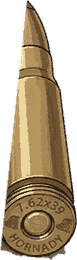
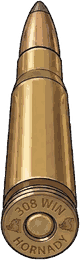
v1.77 - niente zoom nel gioco, cartuccia 308 rifatta

diff --git a/index.html b/index.html
@@ -745,7 +745,8 @@
   overflow:hidden; touch-action:manipulation; user-select:none; -webkit-user-select:none;}
 #gioco.show{display:block;}
 #gioco img.gc-src{display:none;}
-#gioco canvas{position:absolute; inset:0; width:100%; height:100%; display:block;}
+#gioco canvas{position:absolute; inset:0; width:100%; height:100%; display:block;
+  touch-action:none;}   /* niente zoom col doppio tocco mentre si spara */
 #gc-top{position:absolute; top:0; left:0; right:0; z-index:3;
   padding:calc(env(safe-area-inset-top) + 8px) 12px 8px;
   display:flex; align-items:flex-start; justify-content:space-between; pointer-events:none;
@@ -2274,7 +2275,7 @@
   "use strict";
 
   /* ================= CONFIG ================= */
-  var APP_VERSION = "v1.76";   // ← aggiornare a ogni deploy
+  var APP_VERSION = "v1.77";   // ← aggiornare a ogni deploy
   var SUPABASE_URL = "https://vtcgicgznwpsezymsmyu.supabase.co";
   var SUPABASE_KEY = "sb_publishable_LuF-dkRNDIR0kP66Ng0xsA_lDwCoIMW";
   var sb = window.supabase.createClient(SUPABASE_URL, SUPABASE_KEY);
@@ -13580,9 +13581,32 @@
         el("gc-audio").innerHTML = audioSi ? "&#128266;" : "&#128263;";
       };
       window.addEventListener("resize", function(){ if(acceso) dimensiona(); });
+
+      /* NIENTE ZOOM MENTRE SI GIOCA.
+         Il meta viewport con user-scalable=no non basta: iPhone lo ignora da anni,
+         e col doppio tocco o due dita lo schermo si ingrandiva e il cane finiva
+         fuori dal ritaglio. Lo blocco solo qui dentro: fuori dal gioco lo zoom
+         resta libero, che sulla mappa serve. */
+      var box=el("gioco");
+      ["gesturestart","gesturechange","gestureend"].forEach(function(ev){
+        box.addEventListener(ev, function(e){ e.preventDefault(); }, {passive:false});
+      });
+      box.addEventListener("touchstart", function(e){ if(e.touches.length>1) e.preventDefault(); }, {passive:false});
+      box.addEventListener("touchmove",  function(e){ if(e.touches.length>1) e.preventDefault(); }, {passive:false});
+      var ultimoTocco=0;
+      cv.addEventListener("touchend", function(e){
+        var t=Date.now();
+        if(t-ultimoTocco<350) e.preventDefault();   // il doppio tocco ingrandiva
+        ultimoTocco=t;
+      }, {passive:false});
+      if(window.visualViewport){
+        // se lo schermo resta ingrandito da prima, il campo si rimisura da solo
+        window.visualViewport.addEventListener("resize", function(){ if(acceso) dimensiona(); });
+      }
     }
     function apri(){
       prepara();
+      try{ window.scrollTo(0,0); }catch(e){}
       el("gioco").classList.add("show");
       acceso=true;
       S=null;
